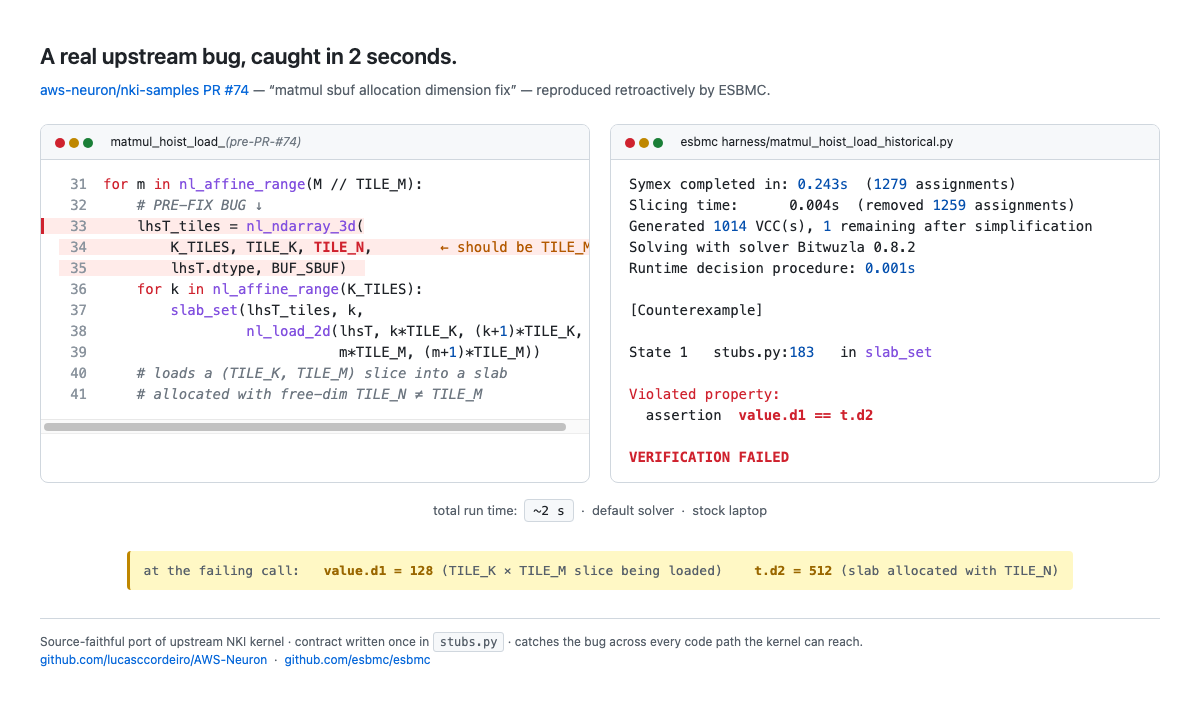
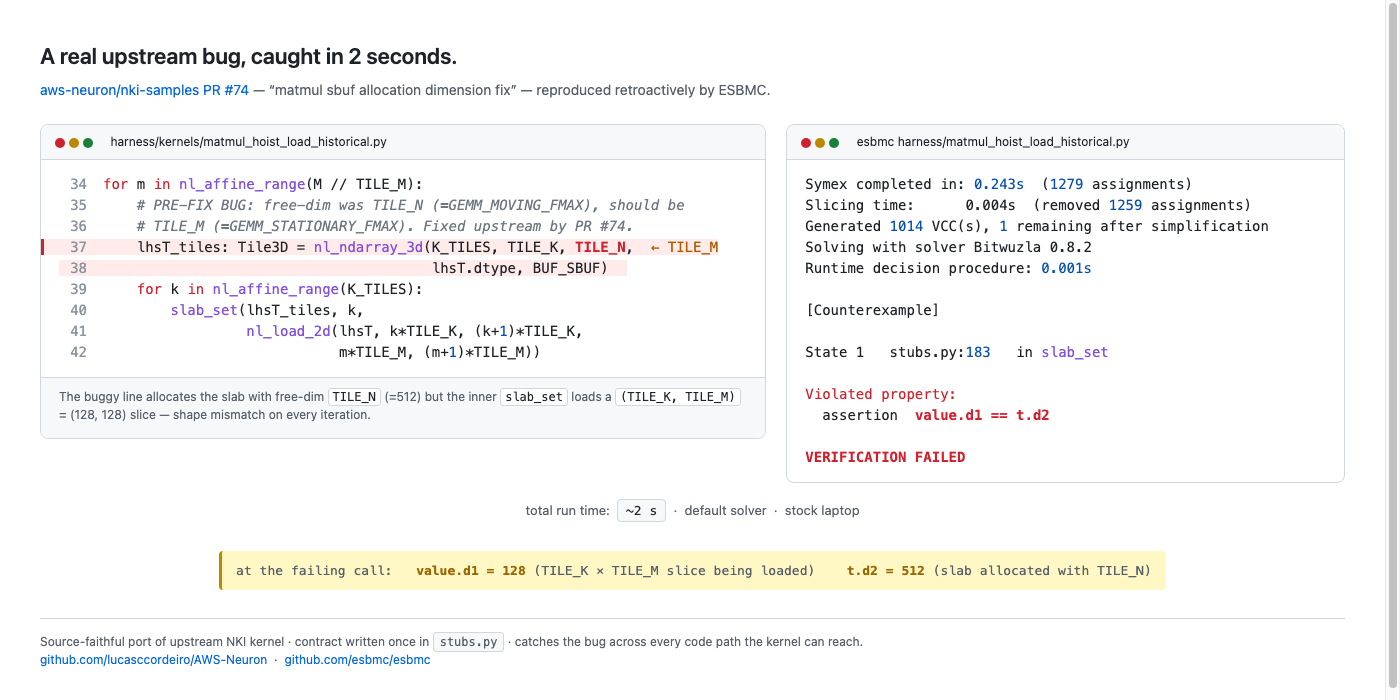
Correct bug figure: real line numbers, no fabricated source
- Line numbers in the code panel now match the actual file
  (harness/kernels/matmul_hoist_load_historical.py lines 34-42), not
  the 31-41 the prior version showed.
- Removed the two synthesized comment lines at the bottom of the
  code panel that were not in the source. Moved that commentary
  into a panel caption that is labelled as caption, not code.
- Widened the frame to 1320px and asymmetric grid (1.3:1) so the
  longer literal source line fits without horizontal clipping.
- Regenerated PNG at 1400x700 (close to LinkedIn aspect).

diff --git a/figures/bug_pr74.html b/figures/bug_pr74.html
@@ -16,7 +16,7 @@
     min-height: 100vh;
   }
   .frame {
-    max-width: 1120px;
+    max-width: 1320px;
     margin: 0 auto;
   }
   h1 {
@@ -35,8 +35,9 @@
   .caption a { color: #0969da; text-decoration: none; }
   .panels {
     display: grid;
-    grid-template-columns: 1fr 1fr;
+    grid-template-columns: 1.3fr 1fr;
     gap: 20px;
+    align-items: start;
   }
   .panel {
     background: #ffffff;
@@ -64,6 +65,23 @@
     padding: 14px 18px;
     white-space: pre;
     overflow-x: auto;
+  }
+  .panel-caption {
+    padding: 10px 18px 14px;
+    border-top: 1px solid #d0d7de;
+    background: #f6f8fa;
+    font-family: -apple-system, BlinkMacSystemFont, "Segoe UI", sans-serif;
+    font-size: 12px;
+    line-height: 1.5;
+    color: #57606a;
+  }
+  .panel-caption code {
+    font-family: "SF Mono", "Menlo", "Consolas", monospace;
+    background: #ffffff;
+    border: 1px solid #d0d7de;
+    padding: 1px 4px;
+    border-radius: 3px;
+    color: #1f2328;
   }
   .ln {
     display: inline-block;
@@ -140,19 +158,23 @@
   <div class="panel">
     <div class="panel-head">
       <span class="dot r"></span><span class="dot y"></span><span class="dot g"></span>
-      <span class="filename">matmul_hoist_load_<span class="com">(pre-PR-#74)</span></span>
+      <span class="filename">harness/kernels/matmul_hoist_load_historical.py</span>
     </div>
-    <div class="panel-body"><span class="ln">31</span><span class="kw">for</span> m <span class="kw">in</span> <span class="fn">nl_affine_range</span>(M // TILE_M):
-<span class="ln">32</span>    <span class="com"># PRE-FIX BUG ↓</span>
-<span class="row-bad"><span class="ln">33</span>    lhsT_tiles = <span class="fn">nl_ndarray_3d</span>(
-<span class="ln">34</span>        K_TILES, TILE_K, <span class="red">TILE_N</span>,        <span class="arr">← should be TILE_M</span>
-<span class="ln">35</span>        lhsT.dtype, BUF_SBUF)</span>
-<span class="ln">36</span>    <span class="kw">for</span> k <span class="kw">in</span> <span class="fn">nl_affine_range</span>(K_TILES):
-<span class="ln">37</span>        <span class="fn">slab_set</span>(lhsT_tiles, k,
-<span class="ln">38</span>                 <span class="fn">nl_load_2d</span>(lhsT, k*TILE_K, (k+<span class="num">1</span>)*TILE_K,
-<span class="ln">39</span>                            m*TILE_M, (m+<span class="num">1</span>)*TILE_M))
-<span class="ln">40</span>    <span class="com"># loads a (TILE_K, TILE_M) slice into a slab</span>
-<span class="ln">41</span>    <span class="com"># allocated with free-dim TILE_N ≠ TILE_M</span></div>
+    <div class="panel-body"><span class="ln">34</span><span class="kw">for</span> m <span class="kw">in</span> <span class="fn">nl_affine_range</span>(M // TILE_M):
+<span class="ln">35</span>    <span class="com"># PRE-FIX BUG: free-dim was TILE_N (=GEMM_MOVING_FMAX), should be</span>
+<span class="ln">36</span>    <span class="com"># TILE_M (=GEMM_STATIONARY_FMAX). Fixed upstream by PR #74.</span>
+<span class="row-bad"><span class="ln">37</span>    lhsT_tiles: Tile3D = <span class="fn">nl_ndarray_3d</span>(K_TILES, TILE_K, <span class="red">TILE_N</span>,  <span class="arr">← TILE_M</span>
+<span class="ln">38</span>                                       lhsT.dtype, BUF_SBUF)</span>
+<span class="ln">39</span>    <span class="kw">for</span> k <span class="kw">in</span> <span class="fn">nl_affine_range</span>(K_TILES):
+<span class="ln">40</span>        <span class="fn">slab_set</span>(lhsT_tiles, k,
+<span class="ln">41</span>                 <span class="fn">nl_load_2d</span>(lhsT, k*TILE_K, (k+<span class="num">1</span>)*TILE_K,
+<span class="ln">42</span>                            m*TILE_M, (m+<span class="num">1</span>)*TILE_M))</div>
+    <div class="panel-caption">
+      The buggy line allocates the slab with free-dim
+      <code>TILE_N</code> (=512) but the inner <code>slab_set</code> loads
+      a <code>(TILE_K, TILE_M)</code> = (128, 128) slice — shape mismatch
+      on every iteration.
+    </div>
   </div>
 
   <!-- Right panel: ESBMC counterexample -->
